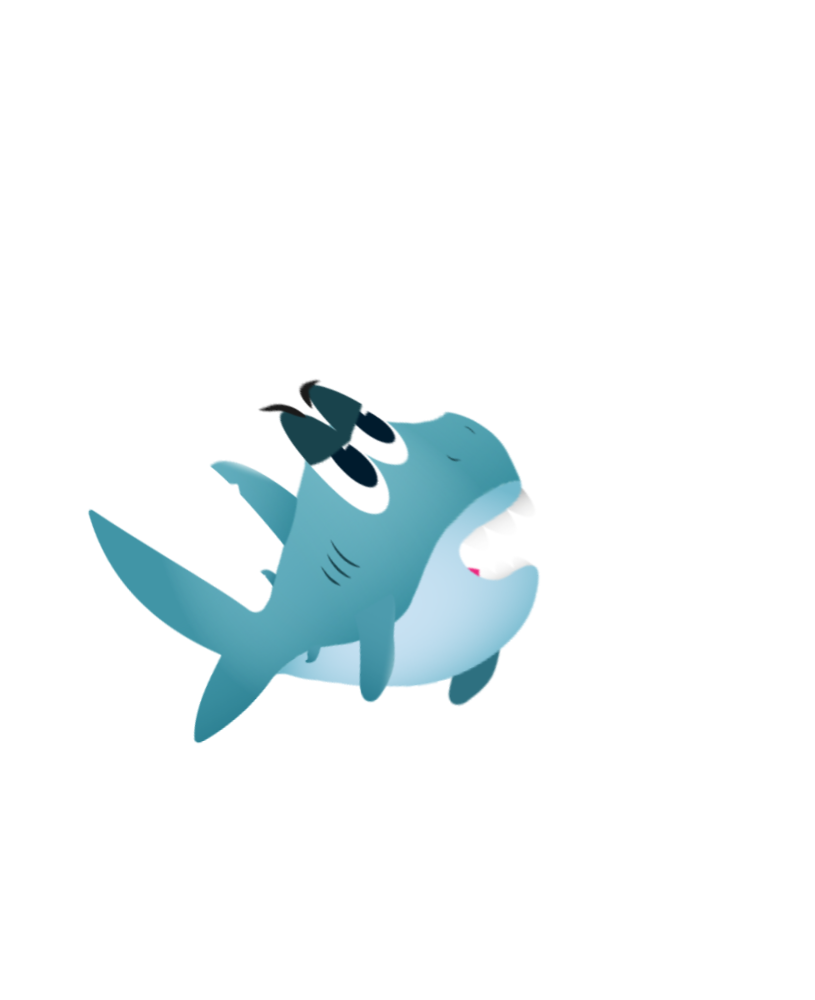
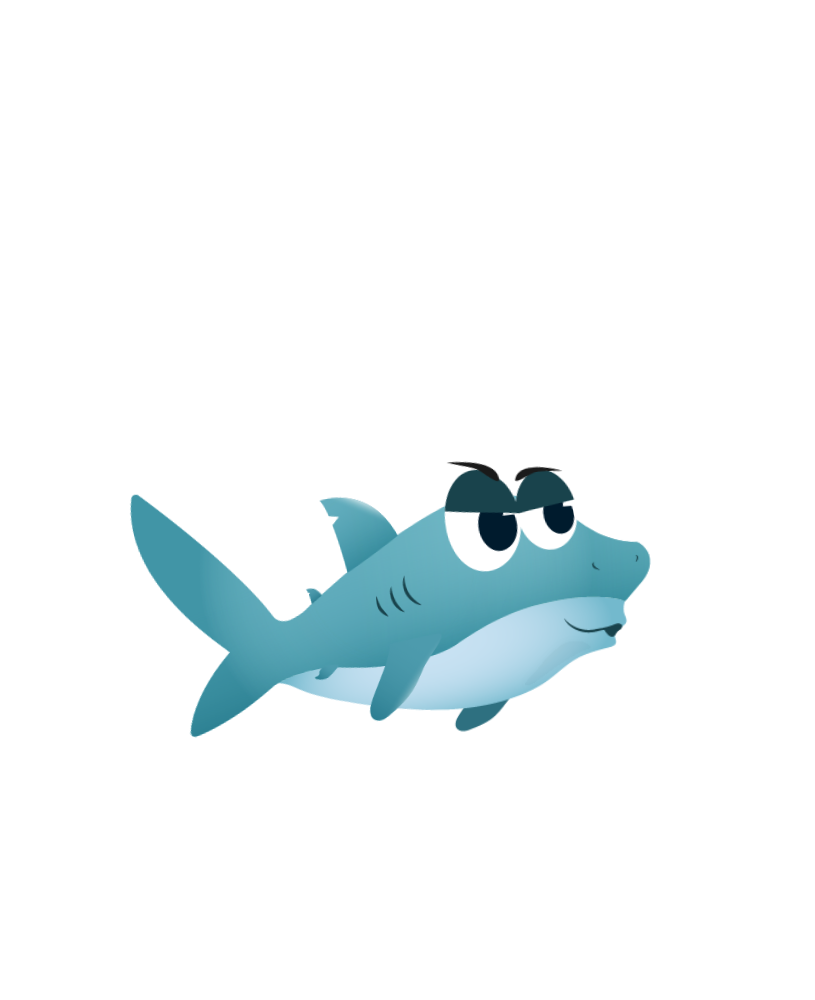
added attacks

Changed region(s): [[0.092, 0.372, 0.7975, 0.744], [0.2147, 0.713, 0.3067, 0.744]]

diff --git a/game/entities/character.class.js b/game/entities/character.class.js
@@ -1,23 +1,31 @@
 import Game from "../game.class.js";
 import MovableObject from "../movable-object.class.js";
+import Bubble from './bubble.class.js'
 
 
 export default class Character extends MovableObject {
 
     name = 'character'
-    left = false
-    right = false
     speed = 10
     height = 600
     width = 489
+
     y = 10
     x = 200
+
+    left = false
+    right = false
+
     speedY = 0
     acceleration = 0.5
+
     hitboxLeft = 95
     hitboxRight = 95
     hitboxTop = 290
     hitboxBottom = 130
+
+    isSwimming = false
+    isAttacking = false
 
     SWIM_ANIMATION = {
         frames: 5,
@@ -27,6 +35,16 @@ export default class Character extends MovableObject {
     IDLE_ANIMATION = {
         frames: 18,
         path: '../assets/sharkie/idle/'
+    }
+
+    SLAP_ANIMATION = {
+        frames: 3,
+        path: '../assets/sharkie/attack/fin-slap/'
+    }
+
+    BUBBLE_ANIMATION = {
+        frames: 4,
+        path: '../assets/sharkie/attack/bubble-tap/'
     }
     
     constructor() {
@@ -47,7 +65,7 @@ export default class Character extends MovableObject {
             this.game.world.level.enemies.forEach(enemy => {
                 this.checkCollisionsWith(enemy)
             })
-        }, 25)
+        }, 50)
     };
 
     checkCollisionsWith(object) {
@@ -66,7 +84,7 @@ export default class Character extends MovableObject {
             }
         })
 
-        /**start swimming and jump on key down */
+        /**start swimming, jump, slap and shoot on key down */
         this.game.events.on('keydown', () => {
             if(event.code == 'ArrowRight' && !event.repeat) {
                 this.startSwimming('right')
@@ -75,8 +93,45 @@ export default class Character extends MovableObject {
             } else if(event.code == 'Space' && !event.repeat) {
                 this.speedY = 15
                 this.isJumping = true
+            } else if(event.key == 'y' && !event.repeat) {
+                if(!this.isAttacking) {
+                    this.slap()
+                }
+            } else if(event.key == 'x' && !event.repeat) {
+                this.shootBubble()
             }
         })
+    }
+
+    slap() {
+        if(!this.isAttacking) {
+            this.isAttacking = true
+            this.playAnimation(this.SLAP_ANIMATION)
+            setTimeout(() => { 
+                if(this.isSwimming) {
+                    this.playAnimation(this.SWIM_ANIMATION)
+                } else {
+                    this.playAnimation(this.IDLE_ANIMATION)
+                }
+                this.isAttacking = false
+            }, 600)
+        }
+    }
+
+    shootBubble() {
+        if(!this.isAttacking) {
+            this.isAttacking = true
+            this.playAnimation(this.BUBBLE_ANIMATION)
+            setTimeout(() => { 
+                if(this.isSwimming) {
+                    this.playAnimation(this.SWIM_ANIMATION)
+                } else {
+                    this.playAnimation(this.IDLE_ANIMATION)
+                }
+                this.isAttacking = false
+                this.game.world.bubbles.push(new Bubble(this.game.world.bubbles.length))
+            }, 600)
+        }
     }
 
     /**load assets */
@@ -84,10 +139,14 @@ export default class Character extends MovableObject {
         this.loadImage('../assets/sharkie/swim/1.png');
         this.loadAnimation(this.SWIM_ANIMATION)
         this.loadAnimation(this.IDLE_ANIMATION)
+        this.loadAnimation(this.SLAP_ANIMATION)
+        this.loadAnimation(this.BUBBLE_ANIMATION)
     }
 
     startSwimming(direction) {
-        this.playAnimation(this.SWIM_ANIMATION)
+        if(!this.isAttacking) {
+            this.playAnimation(this.SWIM_ANIMATION)
+        }
 
         /**activate direciton boolean */
         this.left = direction == 'left'
@@ -95,6 +154,8 @@ export default class Character extends MovableObject {
 
         /**draw reverse */
         this.drawReverse = direction == 'left'
+
+        this.isSwimming = true
     }
 
     stopSwimming(direction) {
@@ -106,9 +167,11 @@ export default class Character extends MovableObject {
         }
 
         /**disable animation */
-        if(!this.left && !this.right) {
+        if(!this.left && !this.right && !this.isAttacking) {
             this.playAnimation(this.IDLE_ANIMATION)
         }
+
+        this.isSwimming = false
     }
 
     updateSwim() {

diff --git a/game/entities/bubble.class.js b/game/entities/bubble.class.js
@@ -1,0 +1,58 @@
+import Game from "../game.class.js";
+import MovableObject from "../movable-object.class.js";
+
+export default class Pufferfish extends MovableObject {
+
+    name = 'bubble'
+    height = 90
+    width = 90
+    speed = 2
+    
+
+    /**
+     * constructor
+     */
+    constructor(index) {
+        super();
+
+        this.game = new Game()
+
+        this.character = this.game.world.level.character
+        this.left = this.character.drawReverse
+        this.index = index
+
+        this.setPosition()
+        this.move()
+        this.load()
+
+        setTimeout(() => {
+            this.selfDestruct()
+        }, 4000)
+    };
+
+    setPosition() {
+        if(this.character.drawReverse) {
+            this.x = this.character.x  + 50
+            this.y = this.character.y  + this.character.height / 2 + 20
+        } else {
+            this.x = this.character.x + this.character.width - 130
+            this.y = this.character.y  + this.character.height / 2 + 20
+        }
+    }
+
+    move() {
+        if(this.left) {
+            gsap.to(this, { duration: 4, x: this.x - 2100})
+        } else {
+            gsap.to(this, { duration: 4, x: this.x + 2100})
+        }
+    }
+
+    load() {
+        this.loadImage('../assets/sharkie/attack/bubble-tap/bubble.png');
+    }
+
+    selfDestruct() {
+        this.game.world.bubbles.splice( this.game.world.bubbles.indexOf(this), 1)
+    }
+};

diff --git a/game/drawer.class.js b/game/drawer.class.js
@@ -9,21 +9,27 @@ export default class Drawer {
 
     draw(object) {
         if(object.drawReverse) {
-            this.ctx.save()
-            this.ctx.translate(object.width, 0)
-            this.ctx.scale(-1, 1)
-            object.x = object.x * -1
+            this.drawReverse(object)
+        } else {
+            this.ctx.drawImage(object.img, object.x, object.y, object.width, object.height);
         }
+        //this.drawHitbox(object)
+    };
 
+    drawReverse(object) {
+        /**flip */
+        this.ctx.save()
+        this.ctx.translate(object.width, 0)
+        this.ctx.scale(-1, 1)
+        object.x = object.x * -1
+
+        /**draw */
         this.ctx.drawImage(object.img, object.x, object.y, object.width, object.height);
 
-        //this.drawHitbox(object)
-
-        if(object.drawReverse) {
-            object.x = object.x * -1
-            this.ctx.restore()
-        }
-    };
+        /**flip back */
+        object.x = object.x * -1
+        this.ctx.restore()
+    }
 
     drawAll(array) {
         array.forEach(object => {

diff --git a/game/world.class.js b/game/world.class.js
@@ -7,6 +7,7 @@ export default class World {
     camera_x = 0
     current_world_repetitions = 0
     level = new Level()
+    bubbles = []
 
     /**
      * constructor
@@ -15,15 +16,11 @@ export default class World {
         this.game = new Game();
     };
 
-    /**update every frame */
+    /**update on every frame */
     update() {
-        /**clear canvas */
         this.game.drawer.clear();
 
-        /**repeat background world */
         this.repeatBackground()
-
-        /**draw entities with camera position */
         this.draw()
 
         /**update character */
@@ -35,7 +32,6 @@ export default class World {
         this.level.enemies.forEach(enemy => {
             enemy.update()
         })
-
     };
 
     draw() {
@@ -43,6 +39,7 @@ export default class World {
 
         this.game.drawer.drawAll(this.background);
         this.game.drawer.drawAll(this.level.enemies);
+        this.game.drawer.drawAll(this.bubbles)
         this.game.drawer.draw(this.level.character);
 
         this.game.drawer.ctx.translate(-this.camera_x, 0)

diff --git a/game/entities/pufferfish.class.js b/game/entities/pufferfish.class.js
@@ -9,10 +9,6 @@ export default class Pufferfish extends MovableObject {
     color = Math.floor(1 + Math.random() * 3)
     isBig = false
     radius = 1.5
-    hitboxLeft = 0
-    hitboxRight = 0
-    hitboxTop = 0
-    hitboxBottom = 0
 
     SWIM_ANIMATION = {
         frames: 5,
@@ -51,6 +47,7 @@ export default class Pufferfish extends MovableObject {
         }, this.speed)
     };
 
+    /**load assets */
     load() {
         this.loadImage('../assets/puffer/swim/' +  this.color + '-0.png');
         this.loadAnimation(this.SWIM_ANIMATION)

diff --git a/game/game.class.js b/game/game.class.js
@@ -24,6 +24,7 @@ export default class Game {
         this.update();
     }
 
+    /**update on every frame */
     update() {
         if (this.world) {
             this.world.update();
@@ -32,7 +33,5 @@ export default class Game {
         window.requestAnimationFrame(() => {
             this.update();
         });
-
-        //console.log(this.world)
     };
 };

diff --git a/style.css b/style.css
@@ -3,12 +3,18 @@ body {
     display: flex;
     align-items: center;
     justify-content: center;
+    flex-direction: column;
     height: 100vh;
     background: #221b5e
 }
 
 canvas {
     display: block;
+}
+
+span {
+    color: white;
+    font-family: Arial, Helvetica, sans-serif;
 }
 
 @media only screen and (max-width: 1920px) {

diff --git a/game/entities/jellyfish.class.js b/game/entities/jellyfish.class.js
@@ -9,10 +9,6 @@ export default class Pufferfish extends MovableObject {
     width = 183
     y = 640 - this.height
     speed = 2
-    hitboxLeft = 0
-    hitboxRight = 0
-    hitboxTop = 0
-    hitboxBottom = 0
     
     SWIM_ANIMATION = {
         frames: 4,

diff --git a/index.html b/index.html
@@ -10,6 +10,8 @@
     <script src="https://cdnjs.cloudflare.com/ajax/libs/gsap/3.8.0/gsap.min.js"></script>
 </head>
 <body>
+    <span>Y = Slap</span>
+    <span>X = Bubble</span>
     <canvas id="canvas" height="1080" width="1920"></canvas>
 </body>
 </html>
